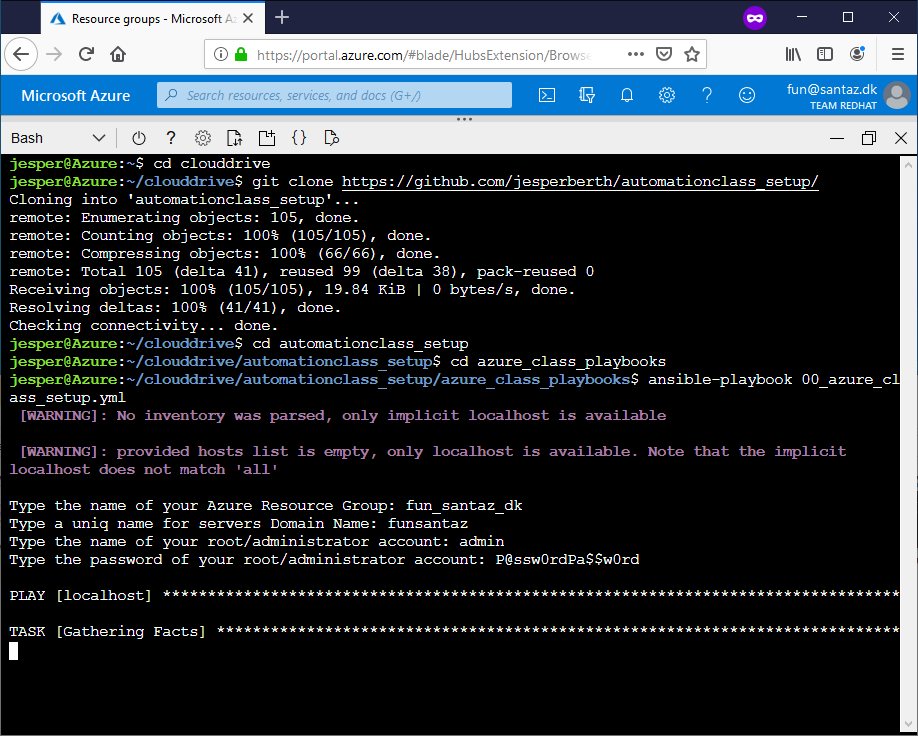
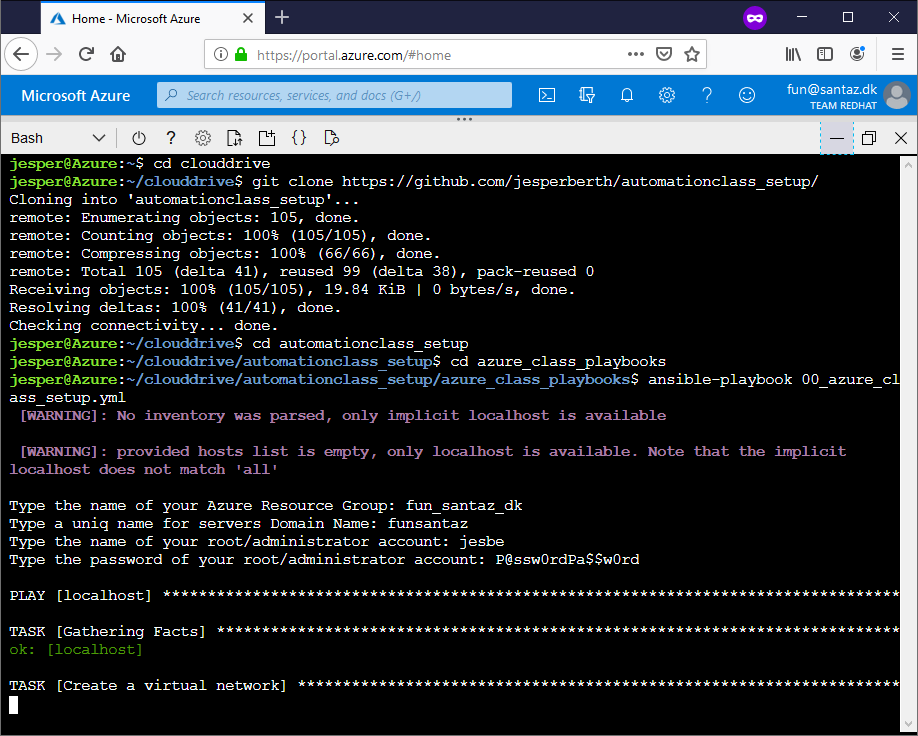
new pic

diff --git a/prepare.md b/prepare.md
@@ -56,7 +56,7 @@ You need to type the name of your allocated Azure Resource Group
 
 Type a uniq name for your dns string ()
 
-Username cannot be root/administrator
+Username cannot be root/administrator/admin
 
 Password must meet complexity requirements, 3 of 4 types and minumum 12 characters
 
